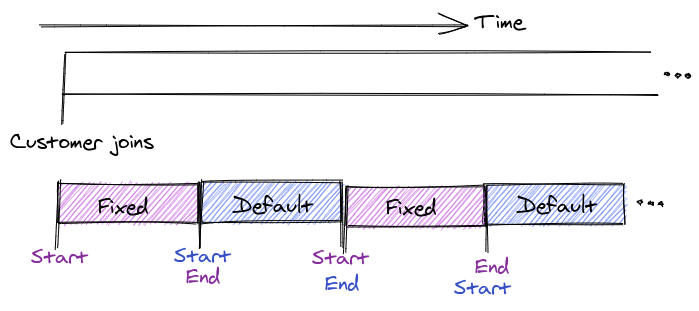
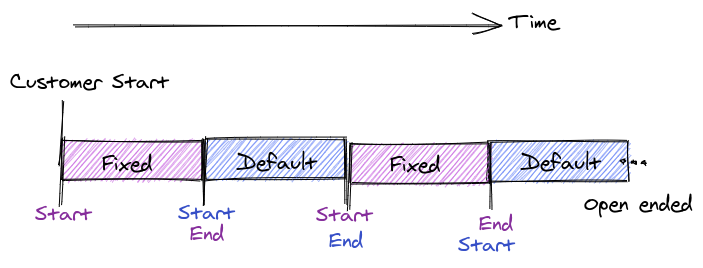
better images

Changed region(s): [[0.0, 0.4179, 0.9914, 0.9552], [0.0, 0.0299, 0.9313, 0.3582], [0.9614, 0.209, 0.9914, 0.2687]]

diff --git a/_posts/2020-10-02-applying-misu.md b/_posts/2020-10-02-applying-misu.md
@@ -4,6 +4,13 @@ title: Applying "Make Invalid States Unrepresentable"
 description: That is "Make Invalid States Unrepresentable"
 ---
 
+<style>
+.img-20 { display: block; width: 100%; max-width: 20rem; margin: 2em auto; }
+.img-30 { display: block; width: 100%; max-width: 30rem; margin: 2em auto; }
+.mb-0 { margin-bottom: 0; }
+.caption { display: block; text-align: center; margin-bottom: 2em; font-size: 0.8rem; }
+</style>
+
 # Applying "Make Invalid States Unrepresentable"
 
 Here are some real life cases of applying one of my
@@ -17,18 +24,18 @@ I'll try to update this as I come across good examples.
 A straightforward way to represent a period of time is by its start
 and end dates (`(Date, Date)`):
 
-<img style="display: block; width: 100%; max-width: 20rem; margin: 2em auto;" src="{{ '/img/articles/misu/c1.png' | absolute_url }}" />
+<img class="img-20" src="/img/articles/misu/c1.png" />
 
 If we need to represent a timeline split in to contiguous periods, it
 may be tempting to represent this as a sequence of periods (e.g. `List
 (Date, Date)`):
 
-<img style="display: block; width: 100%; max-width: 20rem; margin: 2em auto;" src="{{ '/img/articles/misu/c2.png' | absolute_url }}" />
+<img class="img-20" src="/img/articles/misu/c2.png" />
 
 However, with this representation there can be both gaps in the
 timeline and overlapping periods:
 
-<img style="display: block; width: 100%; max-width: 20rem; margin: 2em auto;" src="{{ '/img/articles/misu/c3.png' | absolute_url }}" />
+<img class="img-20" src="/img/articles/misu/c3.png" />
 
 ### Improved Representation
 
@@ -41,7 +48,7 @@ In a well formed contiguous timeline, the joint start/end
 of the adjacent periods are redundant. Contiguous, non-overlapping
 splits can simply be represented by a set of dates (`Set Date`):
 
-<img style="display: block; width: 100%; max-width: 20rem; margin: 2em auto;" src="{{ '/img/articles/misu/c4.png' | absolute_url }}" />
+<img class="img-20" src="/img/articles/misu/c4.png" />
 
 You can begin to see how this representation simplifies the system
 when you consider how to make a further split in the timeline. In the
@@ -70,15 +77,15 @@ This was represented as:
   - An optional end date, for default contracts that don't end.
   - If it was a 'fixed' or 'default' contract.
 
-<img style="display: block; width: 100%; max-width: 30rem; margin: 2em auto 0em auto;" src="{{ '/img/articles/misu/f1.png' | absolute_url }}" />
-<div style="display: block; text-align: center; margin-bottom: 2em; font-size: 0.8rem;">Customer and contract timelines</div>
+<img class="img-30 mb-0" src="/img/articles/misu/f1.png" />
+<div class="caption">Customer and contract timelines</div>
 
 This representation allows for some undesirable states that are trivial to prevent:
 - The customer may have gaps in their contracts.
 - A fixed contract may not have an end date.
 
-<img style="display: block; width: 100%; max-width: 30rem; margin: 2em auto 0em auto;" src="{{ '/img/articles/misu/f2.png' | absolute_url }}" />
-<div style="display: block; text-align: center; margin-bottom: 2em; font-size: 0.8rem;">Contract gaps</div>
+<img class="img-30 mb-0" src="/img/articles/misu/f2.png" />
+<div class="caption">Contract gaps</div>
 
 To make matters worse, the API for these contracts allowed you to
 modify each individual contract, fixed or default, without guarding against
@@ -96,7 +103,8 @@ This is easily improved by removing the 'default' contracts from the
 contract table. If the customer doesn't have a fixed contract, it is
 assumed they are on a default contract:
 
-<img style="display: block; width: 100%; max-width: 30rem; margin: 2em auto;" src="{{ '/img/articles/misu/f3.png' | absolute_url }}" />
+<img class="img-30 mb-0" src="/img/articles/misu/f3.png" />
+<div class="caption">Inferred default contracts</div>
 
 Now there can no longer be any gaps, and 
 the end date of a contract no longer needs to be optional as it only represents fixed contracts.
